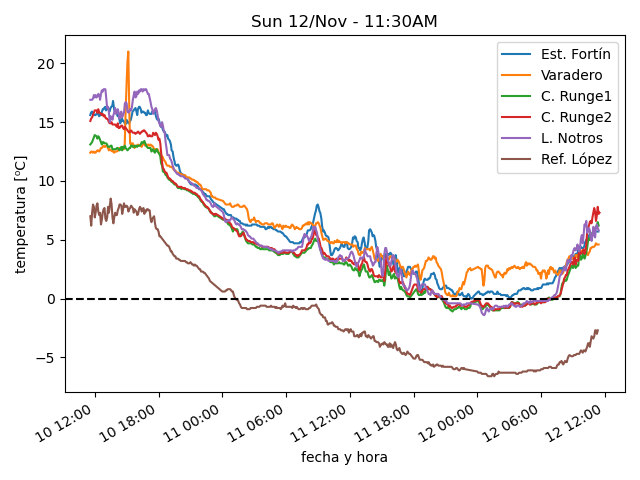
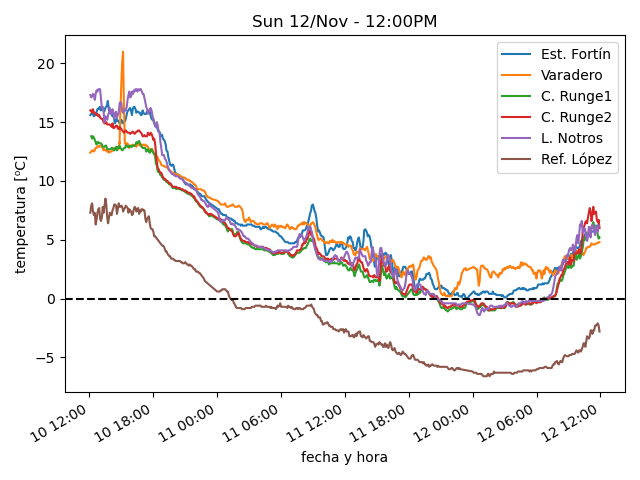
actualiza datos

diff --git a/estaciones/estacion4.html b/estaciones/estacion4.html
@@ -18,32 +18,32 @@
     </tr>
     <tr>
      <td class="stats_data">
-      11:29AM
+      11:54AM
      </td>
     </tr>
     <tr>
      <td class="stats_data">
-      7.3⁰C
+      6.0⁰C
      </td>
     </tr>
     <tr>
      <td class="stats_data">
-      0.2⁰C
+      -0.9⁰C
      </td>
     </tr>
     <tr>
      <td class="stats_data">
-      60.7%
+      61.6%
      </td>
     </tr>
     <tr>
      <td class="stats_data">
-      1016.83hPa
+      1017.03hPa
      </td>
     </tr>
     <tr>
      <td class="stats_data">
-      3.0/4.3 km/hr WSW
+      2.7/4.0 km/hr SW
      </td>
     </tr>
     <tr>
@@ -53,12 +53,12 @@
     </tr>
     <tr>
      <td class="stats_data">
-      11.0
+      2.0
      </td>
     </tr>
     <tr>
      <td class="stats_data">
-      1168.9 W/m²
+      290.7 W/m²
      </td>
     </tr>
    </tbody>

diff --git a/estaciones/estacion2.html b/estaciones/estacion2.html
@@ -18,12 +18,12 @@
     </tr>
     <tr>
      <td class="stats_data">
-      11:24AM
+      11:54AM
      </td>
     </tr>
     <tr>
      <td class="stats_data">
-      4.6⁰C
+      4.8⁰C
      </td>
     </tr>
     <tr>
@@ -33,17 +33,17 @@
     </tr>
     <tr>
      <td class="stats_data">
-      73.7%
+      72.7%
      </td>
     </tr>
     <tr>
      <td class="stats_data">
-      1023.33hPa
+      1023.23hPa
      </td>
     </tr>
     <tr>
      <td class="stats_data">
-      25.6/31.0 km/hr NW
+      32.8/38.1 km/hr NW
      </td>
     </tr>
     <tr>
@@ -53,12 +53,12 @@
     </tr>
     <tr>
      <td class="stats_data">
-      2.0
+      8.0
      </td>
     </tr>
     <tr>
      <td class="stats_data">
-      207.7 W/m²
+      836.8 W/m²
      </td>
     </tr>
    </tbody>

diff --git a/estaciones/estacion1.html b/estaciones/estacion1.html
@@ -18,22 +18,22 @@
     </tr>
     <tr>
      <td class="stats_data">
-      11:23AM
+      11:53AM
      </td>
     </tr>
     <tr>
      <td class="stats_data">
-      5.7⁰C
+      6.6⁰C
      </td>
     </tr>
     <tr>
      <td class="stats_data">
-      -2.9⁰C
+      -2.4⁰C
      </td>
     </tr>
     <tr>
      <td class="stats_data">
-      54.0%
+      53.0%
      </td>
     </tr>
     <tr>
@@ -43,7 +43,7 @@
     </tr>
     <tr>
      <td class="stats_data">
-      18.6/32.2 km/hr NW
+      21.1/31.4 km/hr WNW
      </td>
     </tr>
     <tr>
@@ -53,12 +53,12 @@
     </tr>
     <tr>
      <td class="stats_data">
-      5.0
+      5.9
      </td>
     </tr>
     <tr>
      <td class="stats_data">
-      928.0 W/m²
+      1062.0 W/m²
      </td>
     </tr>
    </tbody>

diff --git a/estaciones/estacion3.html b/estaciones/estacion3.html
@@ -18,12 +18,12 @@
     </tr>
     <tr>
      <td class="stats_data">
-      11:24AM
+      11:54AM
      </td>
     </tr>
     <tr>
      <td class="stats_data">
-      6.2⁰C
+      5.2⁰C
      </td>
     </tr>
     <tr>
@@ -33,7 +33,7 @@
     </tr>
     <tr>
      <td class="stats_data">
-      59.6%
+      64.3%
      </td>
     </tr>
     <tr>
@@ -43,7 +43,7 @@
     </tr>
     <tr>
      <td class="stats_data">
-      5.8/8.3 km/hr WSW
+      5.3/7.6 km/hr WNW
      </td>
     </tr>
     <tr>
@@ -53,12 +53,12 @@
     </tr>
     <tr>
      <td class="stats_data">
-      12.0
+      3.0
      </td>
     </tr>
     <tr>
      <td class="stats_data">
-      1069.3 W/m²
+      302.3 W/m²
      </td>
     </tr>
    </tbody>

diff --git a/estaciones/estacion6.html b/estaciones/estacion6.html
@@ -18,22 +18,22 @@
     </tr>
     <tr>
      <td class="stats_data">
-      11:20AM
+      11:55AM
      </td>
     </tr>
     <tr>
      <td class="stats_data">
-      -2.7⁰C
+      -2.8⁰C
      </td>
     </tr>
     <tr>
      <td class="stats_data">
-      -3.8⁰C
+      -5.2⁰C
      </td>
     </tr>
     <tr>
      <td class="stats_data">
-      92.0%
+      84.0%
      </td>
     </tr>
     <tr>
@@ -43,7 +43,7 @@
     </tr>
     <tr>
      <td class="stats_data">
-      6.4/20.9 km/hr ENE
+      22.5/35.4 km/hr SSE
      </td>
     </tr>
     <tr>
@@ -58,7 +58,7 @@
     </tr>
     <tr>
      <td class="stats_data">
-      911.0 W/m²
+      903.0 W/m²
      </td>
     </tr>
    </tbody>

diff --git a/estaciones/estacion5.html b/estaciones/estacion5.html
@@ -18,32 +18,32 @@
     </tr>
     <tr>
      <td class="stats_data">
-      11:25AM
+      11:50AM
      </td>
     </tr>
     <tr>
      <td class="stats_data">
-      5.8⁰C
+      6.2⁰C
      </td>
     </tr>
     <tr>
      <td class="stats_data">
-      -0.6⁰C
+      0.1⁰C
      </td>
     </tr>
     <tr>
      <td class="stats_data">
-      64.0%
+      65.0%
      </td>
     </tr>
     <tr>
      <td class="stats_data">
-      1020.29hPa
+      1020.35hPa
      </td>
     </tr>
     <tr>
      <td class="stats_data">
-      0.0/3.5 km/hr N
+      0.0/2.6 km/hr N
      </td>
     </tr>
     <tr>
